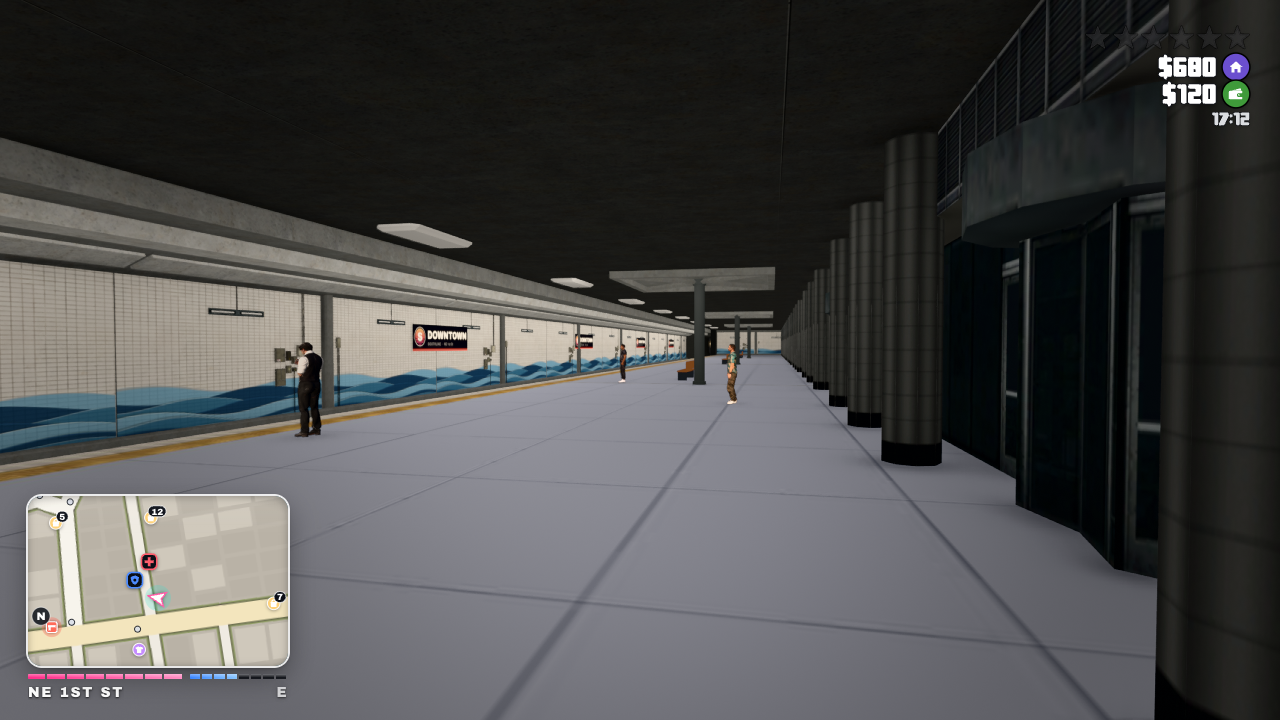
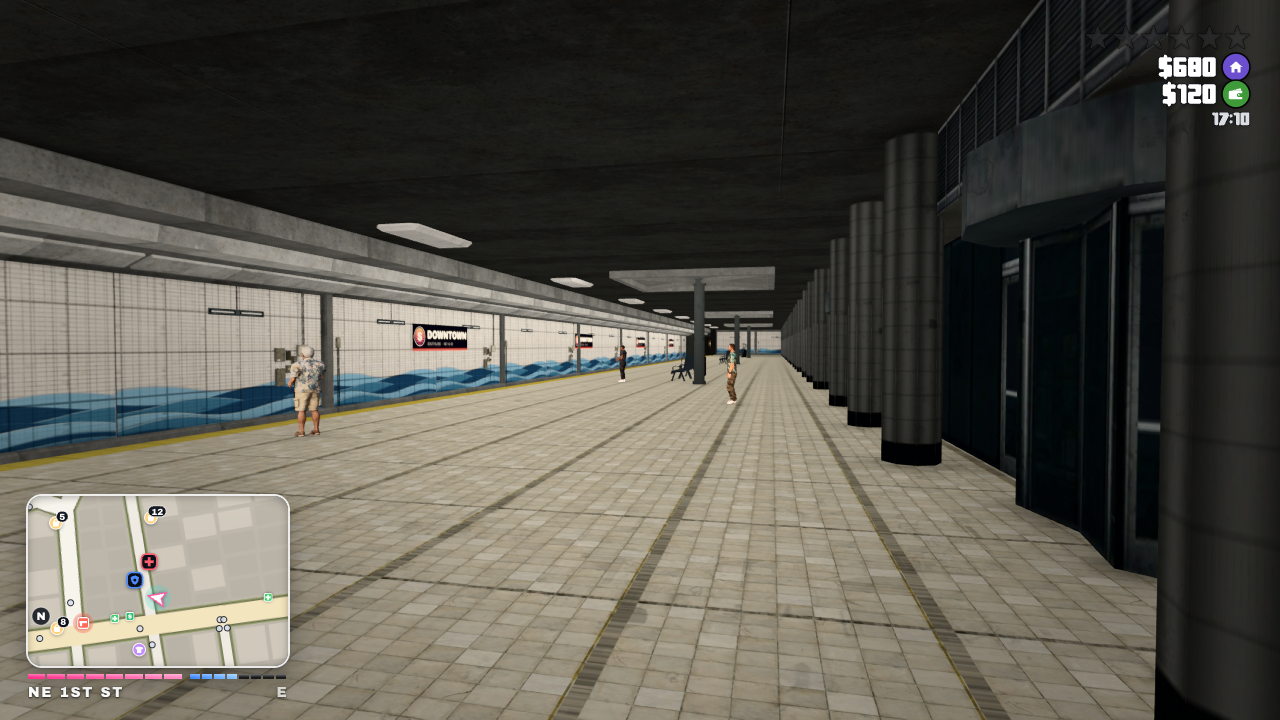
r2-metro: lived-in car: wall wear layer (floor-band dirt, kick marks, faint scratches, yellowed seams, grab-height smudges; offset per car), door leaves (paint, brushed kick plate, worn edges, hand grime), floor wear (dirty edges, worn middle path), 2-6 litter decals per car + a rolling bottle, 3-8 

diff --git a/src/world/metro/metro.v2.js b/src/world/metro/metro.v2.js
@@ -264,7 +264,7 @@ export async function initV2(game) {
       if (!st || !tr) throw new Error('metro models missing');
       // station: unlit + baked light
       let concrete = null;
-      const KT = { floor: kitTex('floor_stone'), tactile: kitTex('tactile'), grime: kitTex('grime_d', false), ceil: kitTex('ceiling_d', false), tile: kitTex('wall_tile_d', false), tunnel: kitTex('tunnel_wall'), bed: kitTex('track_bed'), carFloor: kitTex('car_floor'), panel: kitTex('car_panel') };
+      const KT = { floor: kitTex('floor_stone'), tactile: kitTex('tactile'), grime: kitTex('grime_d', false), ceil: kitTex('ceiling_d', false), tile: kitTex('wall_tile_d', false), tunnel: kitTex('tunnel_wall'), bed: kitTex('track_bed'), carFloor: kitTex('car_floor'), panel: kitTex('car_panel'), door: kitTex('car_door'), floorAo: (() => { const t = new THREE.TextureLoader().load(BASE + 'assets/metro/tex/car_floor_ao.png'); return t; })() };
       st.updateMatrixWorld(true);
       st.traverse((o) => { if (!o.isMesh) return; bakeMesh(o, stationLight); const m = o.material, nm = m?.name || ''; if (/Lambert4|Lambert6/.test(nm) && m.map && !concrete) concrete = m.map;
         const u = unlit(m); o.material = u;
@@ -308,18 +308,43 @@ export async function initV2(game) {
           planarUV(o.geometry, 2.4, 'uv');
           o.material = new THREE.MeshBasicMaterial({ map: KT.panel, color: 0xf2f0ec, vertexColors: true });
         }
-        else if (/^Floor/.test(nm)) { planarUV(o.geometry, 1.6); o.material = new THREE.MeshBasicMaterial({ map: KT.carFloor, color: new THREE.Color(2.4, 2.4, 2.4), vertexColors: true }); }
+        else if (/^Floor/.test(nm)) { planarUV(o.geometry, 1.6); o.material = new THREE.MeshBasicMaterial({ map: KT.carFloor, color: new THREE.Color(3.3, 3.25, 3.2), vertexColors: true }); }
         else o.material = unlit(o.material, { glass: /Glass/.test(nm), tint: /^Bars/.test(nm) ? 0x9a9a9a : /^Walls/.test(nm) ? new THREE.Color(1.4, 1.4, 1.42) : /^Roof/.test(nm) ? 0xd8d8d8 : null });
-        if (!o.material.name && o.name === 'm__none') o.material.color.set(0x8d9298);
+        if (o.name === 'm__none') { planarUV(o.geometry, 2.4); o.material = new THREE.MeshBasicMaterial({ map: KT.door, color: 0xffffff, vertexColors: true }); }   // door leaves: paint, kick plate, worn edges
+        if (/^Floor/.test(nm)) { const P2 = o.geometry.attributes.position, uv1 = new Float32Array(P2.count * 2); for (let i = 0; i < P2.count; i++) { uv1[i * 2] = P2.getX(i) / 4.0 + 0.5; uv1[i * 2 + 1] = P2.getZ(i) / 24.2 + 0.5; }
+          o.geometry.setAttribute('uv1', new THREE.BufferAttribute(uv1, 2)); const t = KT.floorAo; t.channel = 1; t.wrapS = t.wrapT = THREE.ClampToEdgeWrapping; o.material.aoMap = t; o.material.aoMapIntensity = 1; o.material.needsUpdate = true; }
         o.frustumCulled = false; });
       carProto.add(tr);
       const liv = (side) => { const p = canvasPlane(22.6, 0.34, 1024, drawLivery, { transparent: true }); p.position.set(2.06 * side, 0.78, 0); p.rotation.y = side * Math.PI / 2; return p; };
       carProto.add(liv(1), liv(-1));
       for (const side of [1, -1]) for (const z of [-8.5, 8.5]) { const n = canvasPlane(2.6, 0.3, 512, drawCarName, { transparent: true }); n.position.set(2.065 * side, 2.72, z); n.rotation.y = side * Math.PI / 2; carProto.add(n); }
+      // litter (model space of a car: across x, along z, floor y 0): 2-6 per car, varied, plus a rolling bottle in some cars
+      const bottles = [];
+      const decalTex = (draw) => { const c = document.createElement('canvas'); c.width = c.height = 128; const g = c.getContext('2d'); draw(g); return tex(c); };
+      const DECALS = [
+        [0.42, decalTex((g) => { g.fillStyle = 'rgba(70,40,20,0.55)'; g.beginPath(); for (let a = 0; a < 6.3; a += 0.3) { const r = 40 + Math.sin(a * 3) * 9 + Math.cos(a * 5) * 6; g.lineTo(64 + Math.cos(a) * r, 64 + Math.sin(a) * r * 0.8); } g.fill(); g.strokeStyle = 'rgba(50,28,12,0.5)'; g.lineWidth = 3; g.stroke(); })],          // dried soda stain
+        [0.16, decalTex((g) => { g.fillStyle = '#e9e6de'; g.beginPath(); for (let a = 0; a < 6.3; a += 0.45) { const r = 34 + Math.random() * 22; g.lineTo(64 + Math.cos(a) * r, 64 + Math.sin(a) * r); } g.fill(); g.strokeStyle = 'rgba(0,0,0,0.18)'; for (let i = 0; i < 7; i++) { g.beginPath(); g.moveTo(30 + Math.random() * 60, 30 + Math.random() * 60); g.lineTo(30 + Math.random() * 60, 30 + Math.random() * 60); g.stroke(); } })],   // crumpled napkin
+        [0.18, decalTex((g) => { g.fillStyle = '#f3f1ea'; g.fillRect(44, 6, 40, 116); g.fillStyle = 'rgba(40,40,40,0.55)'; for (let y = 16; y < 110; y += 7) g.fillRect(50, y, 16 + Math.random() * 12, 2); })],   // receipt
+        [0.13, decalTex((g) => { g.fillStyle = '#d8d2c8'; g.beginPath(); g.ellipse(64, 64, 56, 30, 0.3, 0, 6.3); g.fill(); g.fillStyle = '#c4473a'; g.fillRect(20, 58, 88, 12); })],   // flattened cup
+      ];
+      const litter = (car, k) => {
+        let seed = 17 + k * 31; const rnd = () => ((seed = (seed * 16807) % 2147483647) / 2147483647);
+        const n = 2 + Math.floor(rnd() * 5);
+        for (let i = 0; i < n; i++) {
+          const [sz, t] = DECALS[Math.floor(rnd() * DECALS.length)];
+          const m = new THREE.Mesh(new THREE.PlaneGeometry(sz * (0.8 + rnd() * 0.5), sz * (0.8 + rnd() * 0.5)).rotateX(-Math.PI / 2), new THREE.MeshBasicMaterial({ map: t, transparent: true, depthWrite: false, color: 0x9a9690 }));
+          m.position.set((rnd() - 0.5) * 2.6, 0.012 + i * 0.001, (rnd() - 0.5) * 22); m.rotation.y = rnd() * 6.28; m.renderOrder = 2; car.add(m);
+        }
+        if (rnd() < 0.75) { const b = new THREE.Group(); const glass = new THREE.MeshBasicMaterial({ color: 0x3f6b4a, transparent: true, opacity: 0.75 });
+          const body = new THREE.Mesh(new THREE.CylinderGeometry(0.033, 0.033, 0.17, 12), glass); const neck = new THREE.Mesh(new THREE.CylinderGeometry(0.012, 0.03, 0.07, 10), glass); neck.position.y = 0.12; b.add(body, neck);
+          b.rotation.z = Math.PI / 2; const spin = new THREE.Group(); spin.add(b); const holder = new THREE.Group(); holder.position.set((rnd() - 0.5) * 1.6, 0.034, (rnd() - 0.5) * 18); holder.rotation.y = (rnd() - 0.5) * 0.5; holder.add(spin); car.add(holder); bottles.push({ holder, b: spin, z0: holder.position.z, off: 0, vel: 0 }); }   // lies across the car, rolls along it
+      };
       const train = new THREE.Group(); train.name = 'metro-train';
       for (let k = 0; k < 3; k++) {
         const car = carProto.clone(true); car.rotation.y = Math.PI / 2; car.position.set((k - 1) * (CAR_L + 0.25), 0, 0); train.add(car);
-        car.traverse((o) => { if (o.isMesh && o.name === 'm__none') doors.push(o); });
+        car.traverse((o) => { if (o.isMesh && o.name === 'm__none') doors.push(o);
+          if (o.isMesh && o.material?.map === KT.panel) { o.material = o.material.clone(); o.material.map = KT.panel.clone(); o.material.map.offset.set(k * 0.37, 0); o.material.map.needsUpdate = true; } });
+        litter(car, k);
       }
       // head / tail light glows
       const glowTex = (() => { const c = document.createElement('canvas'); c.width = c.height = 128; const g = c.getContext('2d'); const gr = g.createRadialGradient(64, 64, 0, 64, 64, 64); gr.addColorStop(0, 'rgba(255,255,255,1)'); gr.addColorStop(0.25, 'rgba(255,255,255,0.45)'); gr.addColorStop(1, 'rgba(255,255,255,0)'); g.fillStyle = gr; g.fillRect(0, 0, 128, 128); return tex(c); })();
@@ -347,7 +372,7 @@ export async function initV2(game) {
       for (let i = 0; i < 48; i++) { const sgm = segG.clone(true); const g1 = glow(0xffe2b0, 2.2, 0.55); g1.position.set(0, 3.2, -3.45); sgm.add(g1); const g2 = glow(0xffe2b0, 2.2, 0.55); g2.position.set(6, 3.2, 3.05); sgm.add(g2); tunnel.add(sgm); segs.push(sgm); }
       const capM = new THREE.MeshBasicMaterial({ color: 0x050506, side: THREE.DoubleSide });
       const caps = [0, 1].map(() => { const c = new THREE.Mesh(new THREE.PlaneGeometry(9, 7), capM); c.rotation.y = Math.PI / 2; c.position.set(0, 2.6, -0.2); tunnel.add(c); return c; });
-      S.kit = { station, train, tunnel, segs, doors, caps };
+      S.kit = { station, train, tunnel, segs, doors, caps, bottles };
       return S.kit;
     })().catch((e) => { console.warn('[metro] kit failed', e); kitReady = null; return null; });
     return kitReady;
@@ -382,7 +407,7 @@ export async function initV2(game) {
   let waiting = [];
   function spawnPeople(stationX) {
     releasePeople(); const peds = game.peds; if (!peds?.spawnAt) return;
-    const spots = [[S.benchSpots[0], 'bench'], [S.benchSpots[2], 'bench'], [new THREE.Vector3(-30, PLAT_Y, 4.2), 'idle'], [new THREE.Vector3(6, PLAT_Y, 3.8), 'idle'], [new THREE.Vector3(34, PLAT_Y, 5.0), 'idle'], [new THREE.Vector3(-12, PLAT_Y, 6.0), 'idle']];
+    const spots = [[S.benchSpots[0], 'bench'], [S.benchSpots[1], 'bench'], [S.benchSpots[2], 'bench'], [S.benchSpots[3], 'bench'], [new THREE.Vector3(-30, PLAT_Y, 4.2), 'idle'], [new THREE.Vector3(6, PLAT_Y, 3.8), 'idle'], [new THREE.Vector3(34, PLAT_Y, 5.0), 'idle'], [new THREE.Vector3(-12, PLAT_Y, 6.0), 'idle']];
     for (const [sp, state] of spots) {
       try {
         const w = toWorld(sp.x + stationX + (state === 'bench' ? (Math.random() - 0.5) * 1.6 : 0), sp.y, sp.z).clone();
@@ -503,6 +528,39 @@ export async function initV2(game) {
 
   // ---- the ride
   const R = { on: false };
+  // riders: 3-8 of the user's people per car, seated on the benches or standing at the poles, moving with the train
+  let riders = [], riderQ = [];
+  const qv = new THREE.Vector3();
+  const headingLocal = (dx, dz) => { qv.set(dx, 0, dz).applyQuaternion(root.quaternion); return Math.atan2(qv.x, qv.z); };
+  function planRiders() {
+    riderQ = [];
+    const seats = [-10.2, -8.8, -3.4, -2.2, 2.2, 3.4, 8.8, 10.2], poles = [-7.6, -4.25, 4.25, 7.6];
+    for (const k of [1, 0, 2]) {   // the middle car (the camera's) first
+      const n = 3 + Math.floor(Math.random() * 6), used = new Set();
+      for (let i = 0; i < n; i++) {
+        const stand = Math.random() < 0.3;
+        const key = stand ? 'p' + Math.floor(Math.random() * poles.length) : 's' + Math.floor(Math.random() * seats.length) + (Math.random() < 0.5 ? 'L' : 'R'); if (used.has(key)) continue; used.add(key);
+        const cx = (k - 1) * (CAR_L + 0.25);
+        if (stand) riderQ.push({ lx: cx + poles[+key.slice(1)] + 0.35, lz: TRACK_Z + (Math.random() - 0.5) * 0.5, sit: false, face: Math.random() < 0.5 ? 1 : -1 });
+        else { const side = key.endsWith('L') ? 1 : -1; riderQ.push({ lx: cx + seats[+key.slice(1, -1)], lz: TRACK_Z - side * 1.5, sit: true, face: side }); }
+      }
+    }
+  }
+  function ridersTick(dt, accel) {
+    const peds = game.peds; if (!peds?.spawnAt) return;
+    if (riderQ.length && (S.riderT = (S.riderT || 0) - dt) <= 0) {   // one person every few frames: dressing a body is not free
+      S.riderT = 0.15; const q = riderQ.shift();
+      try { const w = toWorld(R.s + q.lx, CAR_Y, q.lz).clone(); const p = peds.spawnAt(w, { outfit: 'casual' });
+        if (p) { p.pinned = 1e9; p.v21 = { venue: 'metro' }; p.nav = null; p.group = null; p.target = null; p.state = q.sit ? 'bench' : 'talk'; p.act = p.state; p.stateT = 1e9; p.idleStyle = q.sit ? 'sitBench' : null; riders.push({ p, q, ph: Math.random() * 6 }); } } catch (e) { /* */ }
+    }
+    const t = performance.now() / 1000;
+    for (const r of riders) { const p = r.p; if (!p.active) continue; const q = r.q;
+      const sway = q.sit ? 0 : -accel * 0.05;
+      const w = toWorld(R.s + q.lx + sway, CAR_Y, q.lz); p.pos.copy(w); p.groundY = w.y;
+      p.heading = q.sit ? headingLocal(0, q.face) : headingLocal(q.face, 0) + Math.sin(t * 1.3 + r.ph) * 0.05 + accel * 0.03 * q.face;
+      if (p.root) { p.root.position.copy(p.pos); p.root.rotation.y = p.heading; } }
+  }
+  function releaseRiders() { for (const { p } of riders) { if (!p.active) continue; p.pinned = 0; p.v21 = null; p.despawnNow = true; } riders = []; riderQ = []; }
   function board(j) {
     const K = S.kit; S.dest = j; S.mode = 'ride';
     releasePeople(); platformColliders(false);
@@ -516,6 +574,7 @@ export async function initV2(game) {
     try { game.playerCharacter?.setVisible?.(false); } catch (e) { /* */ }
     P.script = { lock: true, fixed() { const c = camWorld(); game.movePlayerTo(c.x, c.y - 1.6, c.z); } };
     game.cameraOverride = rideCamera;
+    planRiders(); R.vPrev = 0;
     chime(); rumbleStart(); notify('C: inside / outside view · Hold E: skip to arrival', 3600);
   }
   const camL = new THREE.Vector3(), camT = new THREE.Vector3();
@@ -552,8 +611,12 @@ export async function initV2(game) {
     }
     setDoors(T.doorK);
     K.train.position.x = R.s; tunnelTick(); rumbleSet(R.v, 0.8);
+    const accel = dt > 0 ? Math.max(-2, Math.min(2, (R.v - (R.vPrev ?? R.v)) / dt)) : 0; R.vPrev = R.v;
+    ridersTick(dt, accel);
+    for (const b of K.bottles) { b.vel += (-accel * 0.6 - b.off * 0.4 - b.vel * 0.8) * dt; b.off = Math.max(-0.5, Math.min(0.5, b.off + b.vel * dt)); b.holder.position.z = b.z0 + b.off; b.b.rotation.x = b.off / 0.033; }
   }
   function arrive() {
+    releaseRiders();
     const K = S.kit; R.on = false;
     // re-base the space at the destination: station back to local 0, origin above the destination entrance
     const j = S.dest, i = S.here; S.here = j;

diff --git a/tools/v2/metro/car_wear.py b/tools/v2/metro/car_wear.py
@@ -1,0 +1,69 @@
+# r2-metro: lived-in layer for the Southline car (user: "plain and perfect" -> a real feel). Writes, 2K:
+#   car_panel.jpg  laminate + wear: dirtier band near the floor, low kick marks / scuffs, faint scratches (no text),
+#                  yellowed seams, a few low-frequency hand smudges at grab height. 2048 px = 2.4 m (v = height).
+#   car_door.jpg   door leaf: painted metal, brushed steel kick plate, worn paint at the edges, hand grime.
+#   car_floor_ao.png floor wear map across the whole car floor (u = across, v = along): dirty edges and corners,
+#                  a lighter worn path down the middle (used as aoMap).
+#   python3 tools/v2/metro/car_wear.py public/assets/metro/tex
+import sys, os
+import numpy as np
+from PIL import Image, ImageFilter, ImageDraw
+OUT = sys.argv[1]; N = 2048; rng = np.random.default_rng(11)
+def blur(a, r):
+    im = Image.fromarray(((a - a.min()) / (np.ptp(a) + 1e-9) * 255).astype(np.uint8)).filter(ImageFilter.GaussianBlur(r))
+    return np.asarray(im).astype(np.float32) / 255
+x = np.arange(N)[None, :].repeat(N, 0).astype(np.float32); y = np.arange(N)[:, None].repeat(N, 1).astype(np.float32)
+H = (N - 1 - y) / N * 2.4            # height in meters (image bottom = floor)
+# --- base laminate (same look as car_panel.py) + relief
+peel = blur(rng.random((N, N)), 2.2) * 0.6 + blur(rng.random((N, N)), 6) * 0.4
+def groove(d, w): return np.clip(1 - np.abs(d) / w, 0, 1) ** 1.5
+seam = np.zeros((N, N), np.float32)
+for sx in (0, N // 2, N): seam = np.maximum(seam, groove(x - sx, 5))
+for sy in (0, int(N * 0.62), N): seam = np.maximum(seam, groove(y - sy, 4))
+riv = np.zeros((N, N), np.float32)
+for sx in (24, N // 2 - 24, N // 2 + 24, N - 24):
+    for ry in range(48, N, 96): riv = np.maximum(riv, np.clip(1 - np.hypot(x - sx, y - ry) / 7, 0, 1) ** 0.6)
+h = (peel - peel.mean()) * 0.35 - seam * 1.6 + riv * 0.9
+gy, gx = np.gradient(blur(h, 0.8) * 6); l = np.sqrt(gx * gx + gy * gy + 1); shade = np.clip((gy * 0.45 + 0.89) / l, 0, 1)
+col = np.array([206, 201, 191], np.float32)[None, None, :] / 255 * (0.8 + 0.25 * shade[..., None])
+# --- wear layer (low frequency, streaky, never round blobs)
+lowband = np.clip(1 - H / 0.42, 0, 1) ** 1.6 * (0.55 + 0.45 * blur(rng.random((N, N)), 30))           # dirtier near the floor
+streak = blur(rng.random((N // 8, N)), 3); streak = np.asarray(Image.fromarray((streak * 255).astype(np.uint8)).resize((N, N), Image.BILINEAR)).astype(np.float32) / 255
+dirt = lowband * 0.32 + (streak - 0.5) * 0.05 + blur(rng.random((N, N)), 60) * 0.06
+img = Image.new('L', (N, N), 0); d = ImageDraw.Draw(img)
+for _ in range(70):                                                                                     # kick marks / shoe scuffs: short dark strokes low
+    cx = rng.uniform(0, N); hy = rng.uniform(0.04, 0.38); cy = N - 1 - hy / 2.4 * N; ln = rng.uniform(20, 90); a = rng.uniform(-0.35, 0.35)
+    d.line([(cx, cy), (cx + ln * np.cos(a), cy + ln * np.sin(a))], fill=int(rng.uniform(60, 150)), width=int(rng.uniform(2, 6)))
+scuff = np.asarray(img.filter(ImageFilter.GaussianBlur(1.6))).astype(np.float32) / 255
+img = Image.new('L', (N, N), 0); d = ImageDraw.Draw(img)
+for _ in range(45):                                                                                     # faint scratches (light, thin, random angles)
+    cx, cy = rng.uniform(0, N), rng.uniform(0.25, 0.95) * N; ln = rng.uniform(30, 160); a = rng.uniform(0, np.pi)
+    d.line([(cx, cy), (cx + ln * np.cos(a), cy + ln * np.sin(a))], fill=int(rng.uniform(40, 110)), width=1)
+scratch = np.asarray(img.filter(ImageFilter.GaussianBlur(0.5))).astype(np.float32) / 255
+hand = np.clip(1 - np.abs(H - 1.25) / 0.35, 0, 1) * blur(rng.random((N, N)), 45) ** 2 * 0.5           # smudges at grab height, soft
+col = col * (1 - dirt[..., None] * np.array([0.9, 0.95, 1.1])[None, None, :] * 0.9)                     # dirt is a touch warm
+col = col * (1 - scuff[..., None] * 0.45) * (1 - hand[..., None] * 0.12)
+col = col + scratch[..., None] * 0.09
+col = col * (1 - seam[..., None] * 0.35) * (1 - seam[..., None] * np.array([0, 0.06, 0.16])[None, None, :])  # seams darker + yellowed
+Image.fromarray(np.clip(col * 255, 0, 255).astype(np.uint8)).save(os.path.join(OUT, 'car_panel.jpg'), quality=92)
+# --- door leaf (same frame: 2048 px = 2.4 m, v = height)
+dc = np.array([150, 156, 162], np.float32)[None, None, :] / 255 * (0.92 + 0.12 * blur(rng.random((N, N)), 3)[..., None])
+kick = (H < 0.32).astype(np.float32)
+brushed = blur(rng.random((N, 8)), 0.6); brushed = np.asarray(Image.fromarray((brushed * 255).astype(np.uint8)).resize((N, N), Image.BILINEAR)).astype(np.float32) / 255
+steel = np.array([178, 180, 182], np.float32)[None, None, :] / 255 * (0.85 + 0.25 * brushed[..., None])
+dc = dc * (1 - kick[..., None]) + steel * kick[..., None]
+dc = dc * (1 - groove(H - 0.32, 0.006)[..., None] * 0.5)
+chip = (blur(rng.random((N, N)), 1.2) > 0.62).astype(np.float32) * (np.clip(1 - np.minimum(x % (N // 2), (N // 2) - x % (N // 2)) / 40, 0, 1))   # worn paint at leaf edges
+dc = dc * (1 - chip[..., None]) + steel * chip[..., None]
+dgrime = np.clip(1 - np.abs(H - 1.1) / 0.45, 0, 1) * blur(rng.random((N, N)), 35) * 0.35 + lowband * 0.25
+dc = dc * (1 - dgrime[..., None] * 0.6) * (1 - scuff[..., None] * 0.4) + scratch[..., None] * 0.07
+Image.fromarray(np.clip(dc * 255, 0, 255).astype(np.uint8)).save(os.path.join(OUT, 'car_door.jpg'), quality=92)
+# --- floor wear over the whole floor: u across (4.0 m), v along (24.2 m); 512 x 2048
+W2, H2 = 512, 2048; u = np.arange(W2)[None, :].repeat(H2, 0) / W2; v = np.arange(H2)[:, None].repeat(W2, 1) / H2
+edge = np.clip(1 - np.minimum(u, 1 - u) / 0.12, 0, 1) ** 1.5
+ends = np.clip(1 - np.minimum(v, 1 - v) / 0.03, 0, 1)
+path = np.clip(1 - np.abs(u - 0.5) / 0.22, 0, 1)
+n2 = np.asarray(Image.fromarray((rng.random((H2 // 4, W2 // 4)) * 255).astype(np.uint8)).resize((W2, H2), Image.BICUBIC).filter(ImageFilter.GaussianBlur(6))).astype(np.float32) / 255
+ao = 0.86 - edge * 0.3 - ends * 0.2 + path * 0.16 + (n2 - 0.5) * 0.18
+Image.fromarray((np.clip(ao, 0, 1) * 255).astype(np.uint8)).convert('RGB').save(os.path.join(OUT, 'car_floor_ao.png'))
+print('ok')
